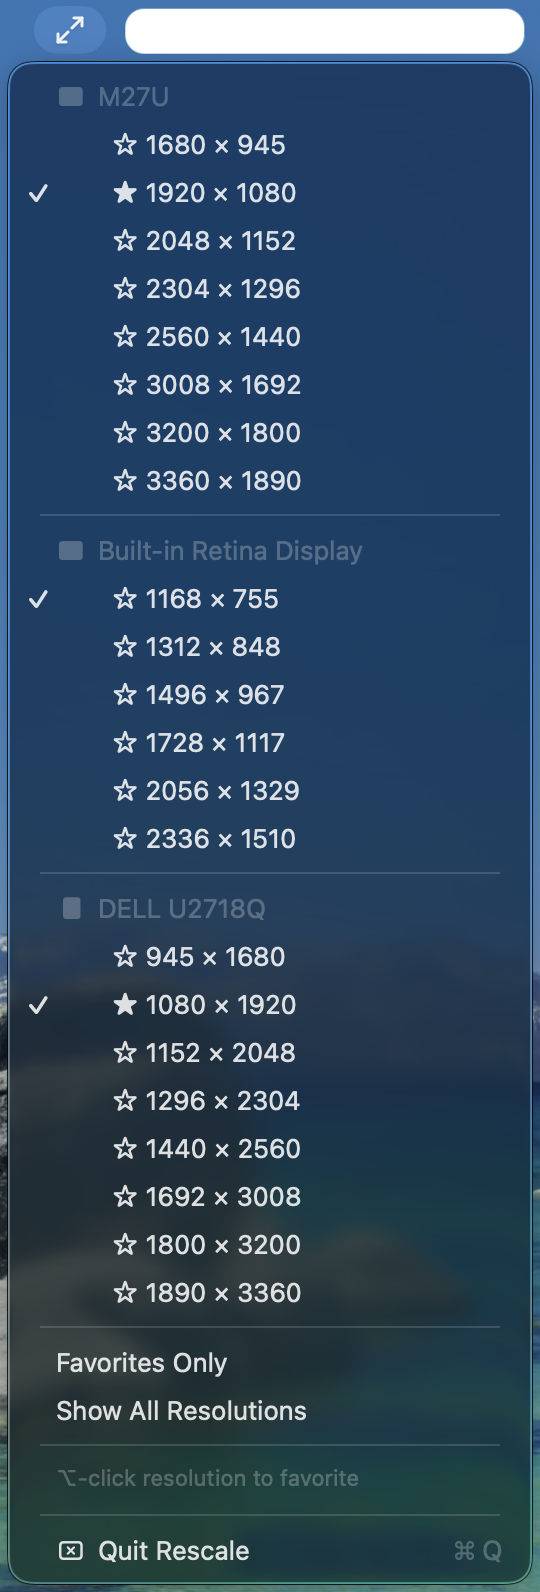
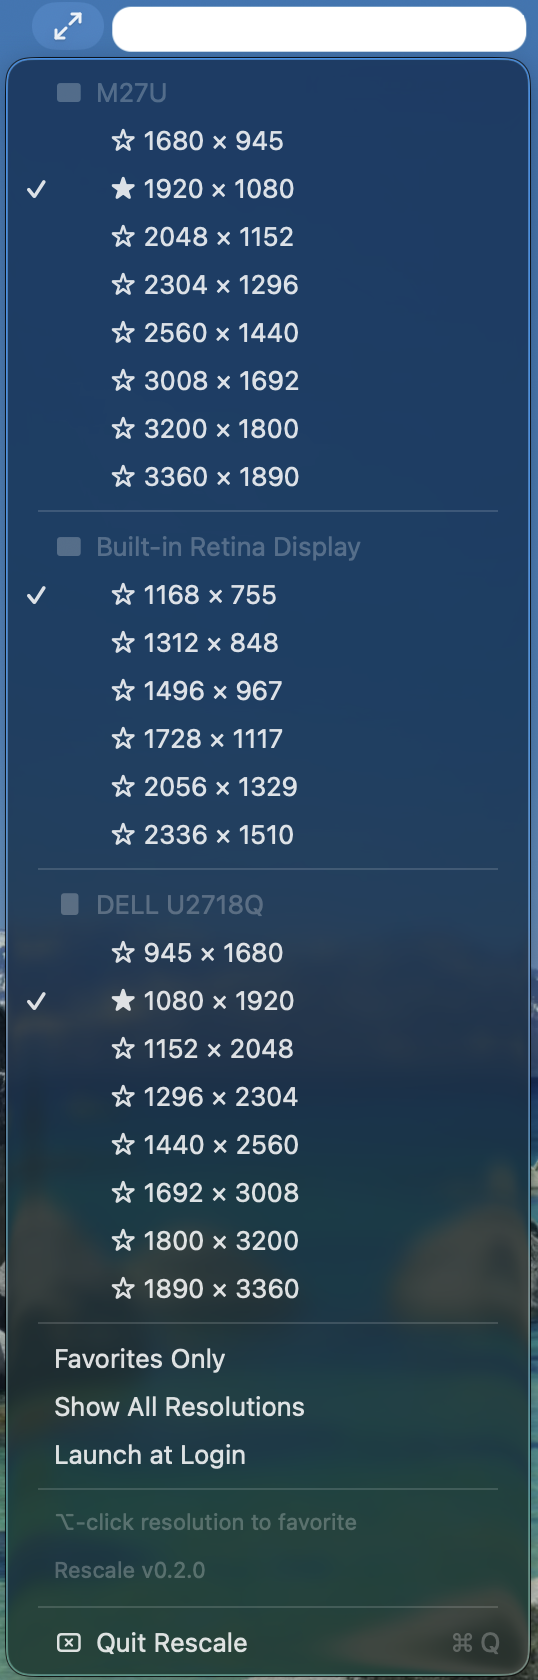
Fix resource bundle crash in .app, match hint/version font, update instructions

diff --git a/Sources/Rescale/main.swift b/Sources/Rescale/main.swift
@@ -27,8 +27,7 @@ final class AppDelegate: NSObject, NSApplicationDelegate, NSMenuDelegate {
         statusItem = NSStatusBar.system.statusItem(withLength: NSStatusItem.variableLength)
 
         if let button = statusItem.button {
-            if let iconURL = Bundle.module.url(forResource: "MenuBarIcon", withExtension: "png", subdirectory: "Resources"),
-               let icon = NSImage(contentsOf: iconURL) {
+            if let icon = Self.loadMenuBarIcon() {
                 icon.isTemplate = true
                 icon.size = NSSize(width: 16, height: 16)
                 button.image = icon
@@ -152,12 +151,13 @@ final class AppDelegate: NSObject, NSApplicationDelegate, NSMenuDelegate {
         hint.attributedTitle = NSAttributedString(string: "⌥-click resolution to favorite", attributes: attributes)
         menu.addItem(hint)
 
-        menu.addItem(.separator())
-
         let version = Bundle.main.object(forInfoDictionaryKey: "CFBundleShortVersionString") as? String ?? "?"
         let versionItem = NSMenuItem(title: "Rescale v\(version)", action: nil, keyEquivalent: "")
         versionItem.isEnabled = false
+        versionItem.attributedTitle = NSAttributedString(string: "Rescale v\(version)", attributes: attributes)
         menu.addItem(versionItem)
+
+        menu.addItem(.separator())
 
         menu.addItem(
             NSMenuItem(
@@ -201,6 +201,23 @@ final class AppDelegate: NSObject, NSApplicationDelegate, NSMenuDelegate {
         DispatchQueue.main.async {
             self.statusItem.button?.performClick(nil)
         }
+    }
+
+    private static func loadMenuBarIcon() -> NSImage? {
+        let bundleName = "Rescale_Rescale.bundle"
+        let candidates = [
+            Bundle.main.bundleURL.appendingPathComponent("Contents/MacOS/\(bundleName)"),
+            Bundle.main.bundleURL.appendingPathComponent(bundleName),
+            Bundle.main.executableURL?.deletingLastPathComponent().appendingPathComponent(bundleName)
+        ]
+        for candidate in candidates {
+            guard let url = candidate,
+                  let bundle = Bundle(url: url),
+                  let iconURL = bundle.url(forResource: "MenuBarIcon", withExtension: "png", subdirectory: "Resources"),
+                  let image = NSImage(contentsOf: iconURL) else { continue }
+            return image
+        }
+        return nil
     }
 
     @objc private func toggleLaunchAtLogin() {

diff --git a/docs/index.html b/docs/index.html
@@ -242,7 +242,9 @@
         <li>Double-click to launch</li>
       </ol>
       <p class="note">
-        Step 2 removes the macOS quarantine flag on unsigned apps. Only needed once.
+        Step 2 removes the macOS quarantine flag on unsigned apps. Only needed once per download.
+        <br>
+        <strong>Updating?</strong> Replace the old Rescale.app in Applications with the new one and re-run the xattr command.
       </p>
       </div>
     </div>

diff --git a/README.md b/README.md
@@ -14,8 +14,9 @@ Quick-switch your Mac's display scaling from the menu bar — the same
 3. Open Terminal and run: `xattr -cr /Applications/Rescale.app`
 4. Double-click to launch
 
-Step 3 removes the macOS quarantine flag on unsigned apps. This only needs to
-be done once.
+Step 3 removes the macOS quarantine flag on unsigned apps. Only needed once per
+download. **Updating?** Replace the old Rescale.app in Applications with the new
+one and re-run the `xattr` command.
 
 ## Features
 